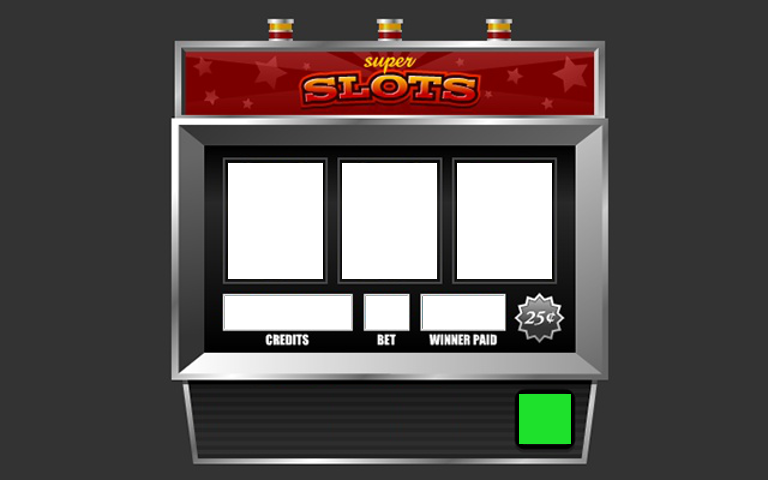
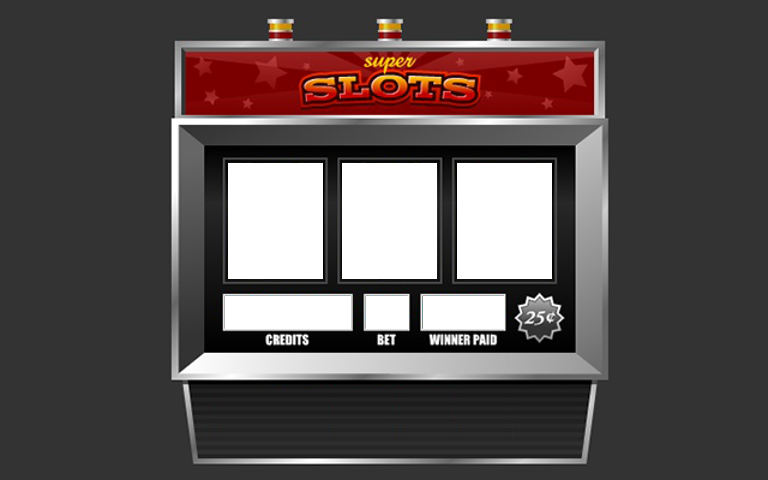
Spin button added, simple functionality

Changed region(s): [[0.6562, 0.8125, 0.75, 0.9375]]

diff --git a/Scripts/objects/reel.ts b/Scripts/objects/reel.ts
@@ -1,21 +1,67 @@
 module objects {
     export class Reel extends objects.GameObject {
         // private
+        private SYMBOL_NAMES:string[] = [
+            "blank", 
+            "grape", 
+            "banana", 
+            "orange",
+            "cherry",
+            "bar",
+            "bell", 
+            "seven"
+        ]
 
+        private SYMBOL_TIMES:number[] = [
+            27, // blank
+            10, // grape
+            9, // banana 
+            8, // orange
+            5, // cherry
+            3, // bar
+            2, // bell
+            1, // seven
+        ]
+
+        private _totalSymbols:number;
+        
         // public
+        public symbol:number;
 
         // contructor
 
         constructor(x:number, y:number) {
-            super("bar");
+            super("blank");
             this.x = x;
             this.y = y;
+            this.symbol = 0;
+            this.countSymbols();
             this.Start();
         }
 
         // private methods
+        private countSymbols():void {
+            this._totalSymbols = 0;
+            this.SYMBOL_TIMES.forEach(element => {
+                this._totalSymbols += element;
+            });
+        }
 
         // public methods
+        public Spin():void{
+            let rnd = Math.floor((Math.random() * 65) + 1);
+            for (let index = 0; index < this.SYMBOL_TIMES.length; index++) {
+                if(rnd <= this.SYMBOL_TIMES[index]) {
+                    this.symbol = index;
+                    this.image = managers.Game.assetMnager.getResult(this.SYMBOL_NAMES[index]) as HTMLCanvasElement;
+                    console.log(this.SYMBOL_NAMES[index]);
+                    return;
+                } else {
+                    rnd -= this.SYMBOL_TIMES[index];
+                }
+            }
+        }
+
         public Reset():void {
         }
 

diff --git a/Scripts/objects/reel.js b/Scripts/objects/reel.js
@@ -1,17 +1,58 @@
 var objects;
 (function (objects) {
     class Reel extends objects.GameObject {
-        // private
-        // public
         // contructor
         constructor(x, y) {
-            super("bar");
+            super("blank");
+            // private
+            this.SYMBOL_NAMES = [
+                "blank",
+                "grape",
+                "banana",
+                "orange",
+                "cherry",
+                "bar",
+                "bell",
+                "seven"
+            ];
+            this.SYMBOL_TIMES = [
+                27,
+                10,
+                9,
+                8,
+                5,
+                3,
+                2,
+                1,
+            ];
             this.x = x;
             this.y = y;
+            this.symbol = 0;
+            this.countSymbols();
             this.Start();
         }
         // private methods
+        countSymbols() {
+            this._totalSymbols = 0;
+            this.SYMBOL_TIMES.forEach(element => {
+                this._totalSymbols += element;
+            });
+        }
         // public methods
+        Spin() {
+            let rnd = Math.floor((Math.random() * 65) + 1);
+            for (let index = 0; index < this.SYMBOL_TIMES.length; index++) {
+                if (rnd <= this.SYMBOL_TIMES[index]) {
+                    this.symbol = index;
+                    this.image = managers.Game.assetMnager.getResult(this.SYMBOL_NAMES[index]);
+                    console.log(this.SYMBOL_NAMES[index]);
+                    return;
+                }
+                else {
+                    rnd -= this.SYMBOL_TIMES[index];
+                }
+            }
+        }
         Reset() {
         }
         Start() {

diff --git a/Scripts/scenes/play.ts b/Scripts/scenes/play.ts
@@ -19,12 +19,13 @@ module scenes {
         private _button_1off:objects.Button;
         private _button_5off:objects.Button;
         private _button_10off:objects.Button;
-
+        
         private _button_0on:objects.Button;
         private _button_1on:objects.Button;
         private _button_5on:objects.Button;
         private _button_10on:objects.Button;
-
+        private _button_spin:objects.Button;
+        
         // contructors
         constructor() {
             super();
@@ -61,6 +62,12 @@ module scenes {
             this._button_1on.visible = this._playerMoney >= 1;
             this._button_5on.visible = this._playerMoney >= 5;
             this._button_10on.visible = this._playerMoney >= 10;
+        }
+
+        private _spin():void {
+            this._reel1.Spin();
+            this._reel2.Spin();
+            this._reel3.Spin();
         }
 
         // public methods
@@ -113,7 +120,6 @@ module scenes {
             this._button_10off = new objects.Button("button10off", 350, 419, true);
             this.addChild(this._button_10off);
 
-
             // on buttons
             this._button_0on = new objects.Button("button0on", 170, 419, true);
             this._button_0on.on("click", ()=>{ this._resetBet(); });
@@ -128,6 +134,11 @@ module scenes {
             this._button_10on = new objects.Button("button10on", 350, 419, true);
             this._button_10on.on("click", ()=>{ this._addBet(10); });
             this.addChild(this._button_10on);
+
+            this._button_spin = new objects.Button("buttonSpin", 484, 419, true);
+            this._button_spin.on("click", ()=>{ this._spin(); });
+            this.addChild(this._button_spin);
+
 
        };
     }

diff --git a/Scripts/core/game.js b/Scripts/core/game.js
@@ -8,19 +8,24 @@
     let currentState;
     let assetManifest = [
         { id: "startButton", src: "./Assets/Images/startButton.png" },
-        { id: "plane", src: "./Assets/Images/plane.png" },
         { id: "mask", src: "./Assets/Images/mask.png" },
-        { id: "cloud", src: "./Assets/Images/cloud.png" },
-        { id: "island", src: "./Assets/Images/island.png" },
         { id: "ocean", src: "./Assets/Images/ocean.gif" },
         { id: "engineSound", src: "./Assets/audio/engine.ogg" },
         { id: "thunderSound", src: "./Assets/audio/thunder.ogg" },
         { id: "yaySound", src: "./Assets/audio/yay.ogg" },
+        { id: "seven", src: "./Assets/Images/seven.png" },
         { id: "bar", src: "./Assets/Images/bar.png" },
+        { id: "bell", src: "./Assets/Images/bell.png" },
+        { id: "cherry", src: "./Assets/Images/cherry.png" },
+        { id: "orange", src: "./Assets/Images/orange.png" },
+        { id: "banana", src: "./Assets/Images/banana.png" },
+        { id: "grape", src: "./Assets/Images/grape.png" },
+        { id: "blank", src: "./Assets/Images/blank.png" },
         { id: "button0on", src: "./Assets/Images/button0on.png" },
         { id: "button1on", src: "./Assets/Images/button1on.png" },
         { id: "button5on", src: "./Assets/Images/button5on.png" },
         { id: "button10on", src: "./Assets/Images/button10on.png" },
+        { id: "buttonSpin", src: "./Assets/Images/buttonSpin.png" },
         { id: "button0off", src: "./Assets/Images/button0off.png" },
         { id: "button1off", src: "./Assets/Images/button1off.png" },
         { id: "button5off", src: "./Assets/Images/button5off.png" },

diff --git a/Scripts/core/game.ts b/Scripts/core/game.ts
@@ -10,19 +10,24 @@
 
     let assetManifest = [
         {id:"startButton", src:"./Assets/Images/startButton.png"},
-        {id:"plane", src:"./Assets/Images/plane.png"},
         {id:"mask", src:"./Assets/Images/mask.png"},
-        {id:"cloud", src:"./Assets/Images/cloud.png"},
-        {id:"island", src:"./Assets/Images/island.png"},
         {id:"ocean", src:"./Assets/Images/ocean.gif"},
         {id:"engineSound", src:"./Assets/audio/engine.ogg"},
         {id:"thunderSound", src:"./Assets/audio/thunder.ogg"},
         {id:"yaySound", src:"./Assets/audio/yay.ogg"},
+        {id:"seven", src:"./Assets/Images/seven.png"},
         {id:"bar", src:"./Assets/Images/bar.png"},
+        {id:"bell", src:"./Assets/Images/bell.png"},
+        {id:"cherry", src:"./Assets/Images/cherry.png"},
+        {id:"orange", src:"./Assets/Images/orange.png"},
+        {id:"banana", src:"./Assets/Images/banana.png"},
+        {id:"grape", src:"./Assets/Images/grape.png"},
+        {id:"blank", src:"./Assets/Images/blank.png"},
         {id:"button0on", src:"./Assets/Images/button0on.png"},
         {id:"button1on", src:"./Assets/Images/button1on.png"},
         {id:"button5on", src:"./Assets/Images/button5on.png"},
         {id:"button10on", src:"./Assets/Images/button10on.png"},
+        {id:"buttonSpin", src:"./Assets/Images/buttonSpin.png"},
         {id:"button0off", src:"./Assets/Images/button0off.png"},
         {id:"button1off", src:"./Assets/Images/button1off.png"},
         {id:"button5off", src:"./Assets/Images/button5off.png"},

diff --git a/Scripts/scenes/play.js b/Scripts/scenes/play.js
@@ -33,6 +33,11 @@ var scenes;
             this._button_5on.visible = this._playerMoney >= 5;
             this._button_10on.visible = this._playerMoney >= 10;
         }
+        _spin() {
+            this._reel1.Spin();
+            this._reel2.Spin();
+            this._reel3.Spin();
+        }
         // public methods
         Start() {
             this.Reset();
@@ -93,6 +98,9 @@ var scenes;
             this._button_10on = new objects.Button("button10on", 350, 419, true);
             this._button_10on.on("click", () => { this._addBet(10); });
             this.addChild(this._button_10on);
+            this._button_spin = new objects.Button("buttonSpin", 484, 419, true);
+            this._button_spin.on("click", () => { this._spin(); });
+            this.addChild(this._button_spin);
         }
         ;
     }
